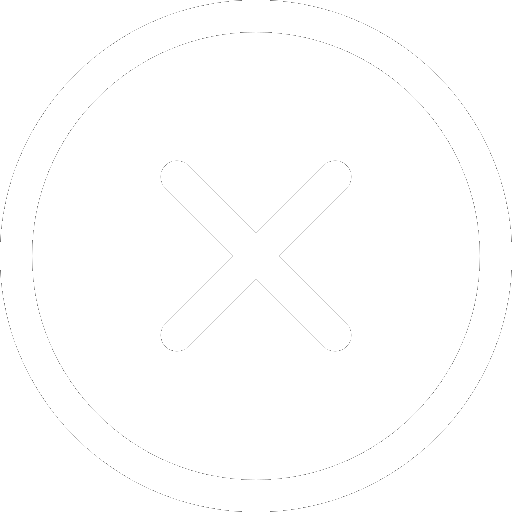
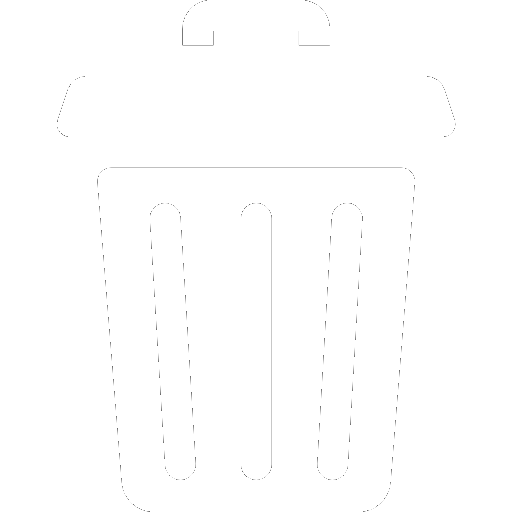
- работа над системой изменение плейлистов - сделана система удаления плейлистов -добавлена система воспроизведения плейлистов

Changed region(s): [[0.4062, 0.0625, 0.4375, 0.0938], [0.3438, 0.0625, 0.375, 0.0938]]

diff --git a/App.xaml b/App.xaml
@@ -362,48 +362,6 @@
                 </Setter.Value>
             </Setter>
         </Style>
-        <Style TargetType="ScrollBar">
-            <Setter Property="Width" Value="14"/>
-            <Setter Property="Template">
-                <Setter.Value>
-                    <ControlTemplate TargetType="ScrollBar">
-                        <Border Background="Transparent"
-                        BorderBrush="Transparent"
-                        BorderThickness="0">
-                            <Track x:Name="PART_Track"
-                           IsDirectionReversed="True"
-                           Orientation="Vertical"
-                           ViewportSize="{TemplateBinding ViewportSize}">
-                                <Track.Thumb>
-                                    <Thumb Cursor="Hand">
-                                        <Thumb.Template>
-                                            <ControlTemplate TargetType="Thumb">
-                                                <Border Background="#B0C4DE"
-                                                CornerRadius="7"
-                                                Margin="2,0"/>
-                                            </ControlTemplate>
-                                        </Thumb.Template>
-                                    </Thumb>
-                                </Track.Thumb>
-                                <Track.DecreaseRepeatButton>
-                                    <RepeatButton Command="ScrollBar.PageUpCommand"
-                                          Background="Transparent"
-                                          BorderBrush="Transparent"
-                                          BorderThickness="0"/>
-                                </Track.DecreaseRepeatButton>
-                                <Track.IncreaseRepeatButton>
-                                    <RepeatButton Command="ScrollBar.PageDownCommand"
-                                          Background="Transparent"
-                                          BorderBrush="Transparent"
-                                          BorderThickness="0"/>
-                                </Track.IncreaseRepeatButton>
-                            </Track>
-                        </Border>
-                    </ControlTemplate>
-                </Setter.Value>
-            </Setter>
-        </Style>
-        <!-- Стиль для TextBox -->
         <Style TargetType="TextBox">
             <Setter Property="Background" Value="{StaticResource GlassBg}"/>
             <Setter Property="BorderBrush" Value="{StaticResource GlassBorder}"/>
@@ -488,6 +446,57 @@
                     </ControlTemplate>
                 </Setter.Value>
             </Setter>
+        </Style>
+        <Style TargetType="ScrollBar">
+            <Setter Property="MinWidth" Value="14"/>
+            <Setter Property="MinHeight" Value="14"/>
+            <Setter Property="Template">
+                <Setter.Value>
+                    <ControlTemplate TargetType="ScrollBar">
+                        <Border Background="Transparent"
+                        BorderBrush="Transparent"
+                        BorderThickness="0">
+                            <Track x:Name="PART_Track"
+                           Orientation="{TemplateBinding Orientation}"
+                           ViewportSize="{TemplateBinding ViewportSize}">
+                                <Track.Thumb>
+                                    <Thumb Cursor="Hand">
+                                        <Thumb.Template>
+                                            <ControlTemplate TargetType="Thumb">
+                                                <Border Background="#B0C4DE"
+                                                CornerRadius="7"
+                                                Margin="2,0"/>
+                                            </ControlTemplate>
+                                        </Thumb.Template>
+                                    </Thumb>
+                                </Track.Thumb>
+                                <Track.DecreaseRepeatButton>
+                                    <RepeatButton Command="ScrollBar.PageUpCommand"
+                                          Background="Transparent"
+                                          BorderBrush="Transparent"
+                                          BorderThickness="0"/>
+                                </Track.DecreaseRepeatButton>
+                                <Track.IncreaseRepeatButton>
+                                    <RepeatButton Command="ScrollBar.PageDownCommand"
+                                          Background="Transparent"
+                                          BorderBrush="Transparent"
+                                          BorderThickness="0"/>
+                                </Track.IncreaseRepeatButton>
+                            </Track>
+                        </Border>
+                    </ControlTemplate>
+                </Setter.Value>
+            </Setter>
+            <Style.Triggers>
+                <Trigger Property="Orientation" Value="Vertical">
+                    <Setter Property="Width" Value="14"/>
+                    <Setter Property="Height" Value="Auto"/>
+                </Trigger>
+                <Trigger Property="Orientation" Value="Horizontal">
+                    <Setter Property="Height" Value="14"/>
+                    <Setter Property="Width" Value="Auto"/>
+                </Trigger>
+            </Style.Triggers>
         </Style>
     </Application.Resources>
  </Application>

diff --git a/MainWindow.xaml b/MainWindow.xaml
@@ -288,7 +288,8 @@
                     </StackPanel>
                     <ListBox
                         x:Name="NewPlaylistTracksListBox"
-                        Grid.Row="1">
+                        Grid.Row="1"
+                        SelectionChanged="NewPlaylistTracksListBox_SelectionChanged">
                         <ListBox.ItemTemplate>
                             <DataTemplate>
                                 <TextBlock Text="{Binding Title}" FontSize="10" Height="12.5"/>
@@ -352,15 +353,17 @@
                     BorderThickness="0"
                     Cursor="Hand">
                         <Image 
-                            Source="/Image/remove.png"
-                            Width="28" Height="28"/>
+                            x:Name="DeleteButtonImage"
+                            Width="28" Height="28"
+                            Visibility="Visible"/>
                     </Button>
                 </StackPanel>
                 <ListBox
                     x:Name="PlaylistListBox"
                     Grid.Row="1"
                     ItemsSource="{Binding Playlists}"
-                    DisplayMemberPath="Name" />
+                    DisplayMemberPath="Name"
+                    SelectionChanged="PlaylistListBox_SelectionChanged"/>
             </Grid>
         </Border>
 

diff --git a/MainWindow.xaml.cs b/MainWindow.xaml.cs
@@ -15,6 +15,7 @@ using System.Windows.Media.Imaging;
 using System.Windows.Shapes;
 using System.Windows.Threading;
 using TagLib;
+using TagLib.Mpeg;
 using WpfAnimatedGif;
 
 namespace AudioPlayer;
@@ -41,6 +42,7 @@ public partial class MainWindow
     private bool _isTrackPlaying;
     private bool _isDragging;
     private bool _playlistCreateMode;
+    private bool _playlistEditMode;
     private double _trackSpeed = 1;
     private TimeSpan _totalDuration;
     private AudioFileInfo? _currentTrack;
@@ -71,7 +73,7 @@ public partial class MainWindow
 
         FolderTreeManager.BuildTree(FoldersTreeView);
         DataContext = this;
-        Loaded += InitializeSliderThumb;
+        Loaded += AfterInitialize;
         
         _trackProgressTimer = new DispatcherTimer
         {
@@ -108,7 +110,7 @@ public partial class MainWindow
         return (PlaybackMode)TrackEndModeSlider.Value;
     }
 
-    private void InitializeSliderThumb(object sender, RoutedEventArgs e)
+    private void AfterInitialize(object sender, RoutedEventArgs e)
     {
         ProgressSlider.ApplyTemplate();
 
@@ -120,6 +122,10 @@ public partial class MainWindow
 
         thumb.DragStarted += Thumb_DragStarted;
         thumb.DragCompleted += Thumb_DragCompleted;
+
+        BitmapImage image = new BitmapImage(new Uri("Image/remove.png", UriKind.Relative));
+
+        DeleteButtonImage.Source = image;
     }
 
     private CancellationTokenSource? _cancellationTokenSource;
@@ -653,10 +659,96 @@ public partial class MainWindow
 
     private void PlaylistEditButton_Click(object sender, RoutedEventArgs e)
     {
+        if (PlaylistListBox.SelectedItem is not Playlist playlist) return;
+
+        if (_playlistEditMode)
+        {
+            CreatePlaylistGrid.Visibility = Visibility.Collapsed;
+            FoldersAccessGrid.Visibility = Visibility.Visible;
+            SecondMainRow.Height = new GridLength(1, GridUnitType.Star);
+            _playlistEditMode = false;
+        }
+        else
+        {
+            CreatePlaylistGrid.Visibility = Visibility.Visible;
+            FoldersAccessGrid.Visibility = Visibility.Collapsed;
+            PlaylistNameTextBlock.Text = playlist.Name;
+
+            var tracks = new List<AudioFileInfo>(playlist.Tracks.Count);
+
+            for (var index = 0; index < playlist.Tracks.Count; index++)
+            {
+                var filePath = playlist.Tracks[index];
+
+                try
+                {
+                    using var tagFile = TagLib.File.Create(filePath);
+
+                    var title = tagFile.Tag.Title;
+                    var artist = tagFile.Tag.FirstPerformer;
+                    var album = tagFile.Tag.Album;
+                    var duration = tagFile.Properties.Duration;
+
+                    tracks.Add(new AudioFileInfo(index, filePath, title, artist, album, duration));
+                }
+                catch (UnauthorizedAccessException ex)
+                {
+                    Debug.WriteLine(
+                        $"Нет доступа к файлу {filePath}: {ex.Message}");
+                }
+                catch (ArgumentOutOfRangeException ex)
+                {
+                    Debug.WriteLine(
+                        $"Ошибка чтения файла {filePath}: {ex.Message}");
+                }
+                catch (CorruptFileException ex)
+                {
+                    Debug.WriteLine(
+                        $"Повреждённый файл {filePath}: {ex.Message}");
+                }
+                catch (Exception ex)
+                {
+                    Debug.WriteLine(
+                        $"Ошибка обработки {filePath}: {ex.Message}");
+                }
+            }
+
+            _newPlaylistTrackCache.Clear();
+
+            foreach (var audioFile in tracks)
+            {
+                _newPlaylistTrackCache.Add(audioFile);
+            }
+
+            CreatePlaylistButton.Content = "Изменить плэйлист";
+            SecondMainRow.Height = new GridLength(6, GridUnitType.Star);
+            _playlistEditMode = true;
+        }
     }
 
     private void PlaylistRemoveButton_Click(object sender, RoutedEventArgs e)
     {
+        if (!_playlistCreateMode) {
+            if (!(PlaylistListBox.SelectedItem is not Playlist playlist))
+            { 
+                MessageBoxResult result = MessageBox.Show($"Вы действительно хотите удалить {playlist.Name}?",
+                                        "Подтверждение удаления", MessageBoxButton.YesNo, MessageBoxImage.Question);
+
+                if (result == MessageBoxResult.Yes)
+                {
+                    _playlistService.RemovePlaylist(playlist.Name);
+                }
+
+                return;
+            }
+        }
+
+        PlaylistNameTextBlock.Text = "";
+        _newPlaylistTrackCache.Clear();
+        CreatePlaylistGrid.Visibility = Visibility.Collapsed;
+        FoldersAccessGrid.Visibility = Visibility.Visible;
+        SecondMainRow.Height = new GridLength(1, GridUnitType.Star);
+        _playlistCreateMode = false;
     }
 
     private void CreatePlaylistButton_Click(object sender, RoutedEventArgs e)
@@ -690,5 +782,61 @@ public partial class MainWindow
         _playlistCreateMode = false;
 
         MessageBox.Show("Плейлист успешно создан!", "Успех", MessageBoxButton.OK, MessageBoxImage.Information);
+    }
+
+    private void PlaylistListBox_SelectionChanged(object sender, SelectionChangedEventArgs e)
+    {
+        if (PlaylistListBox.SelectedItem is not Playlist playlist) return;
+
+        var tracks = new List<AudioFileInfo>(playlist.Tracks.Count);
+
+        for (var index = 0; index < playlist.Tracks.Count; index++)
+        {
+            var filePath = playlist.Tracks[index];
+
+            try
+            {
+                using var tagFile = TagLib.File.Create(filePath);
+
+                var title = tagFile.Tag.Title;
+                var artist = tagFile.Tag.FirstPerformer;
+                var album = tagFile.Tag.Album;
+                var duration = tagFile.Properties.Duration;
+
+                tracks.Add(new AudioFileInfo(index, filePath, title, artist, album, duration));
+            }
+            catch (UnauthorizedAccessException ex)
+            {
+                Debug.WriteLine(
+                    $"Нет доступа к файлу {filePath}: {ex.Message}");
+            }
+            catch (ArgumentOutOfRangeException ex)
+            {
+                Debug.WriteLine(
+                    $"Ошибка чтения файла {filePath}: {ex.Message}");
+            }
+            catch (CorruptFileException ex)
+            {
+                Debug.WriteLine(
+                    $"Повреждённый файл {filePath}: {ex.Message}");
+            }
+            catch (Exception ex)
+            {
+                Debug.WriteLine(
+                    $"Ошибка обработки {filePath}: {ex.Message}");
+            }
+        }
+
+        AudioFiles.Clear();
+
+        foreach (var audioFile in tracks)
+        {
+            AudioFiles.Add(audioFile);
+        }
+    }
+
+    private void NewPlaylistTracksListBox_SelectionChanged(object sender, SelectionChangedEventArgs e)
+    {
+        if (PlaylistListBox.SelectedItem is not AudioFileInfo selectedFile) return;
     }
 }
